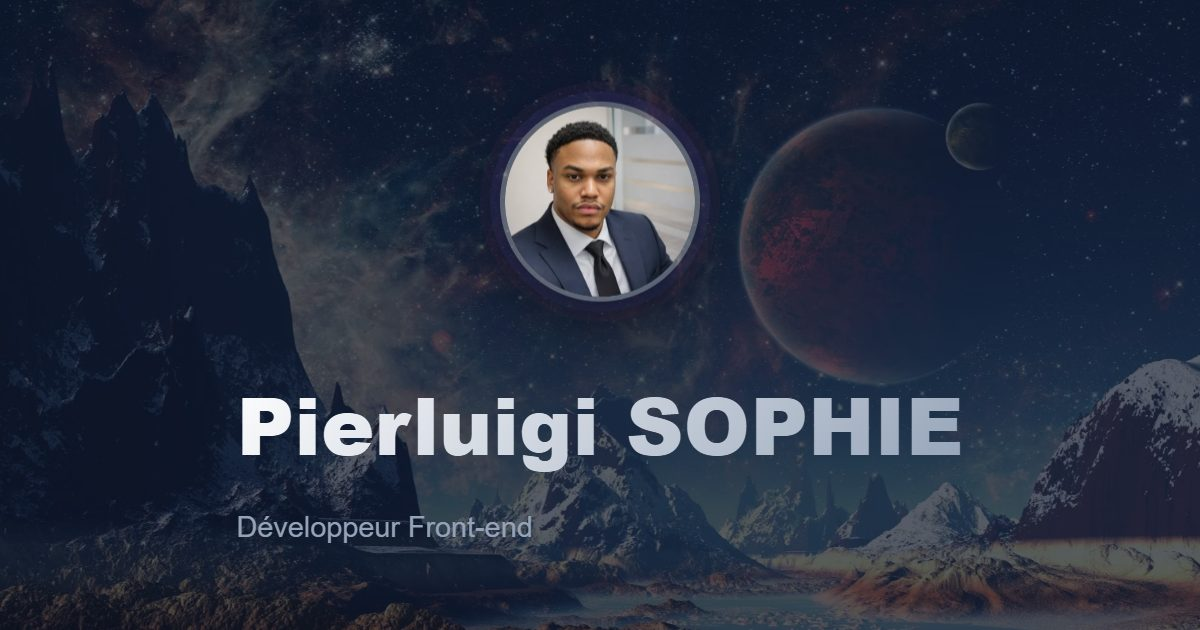
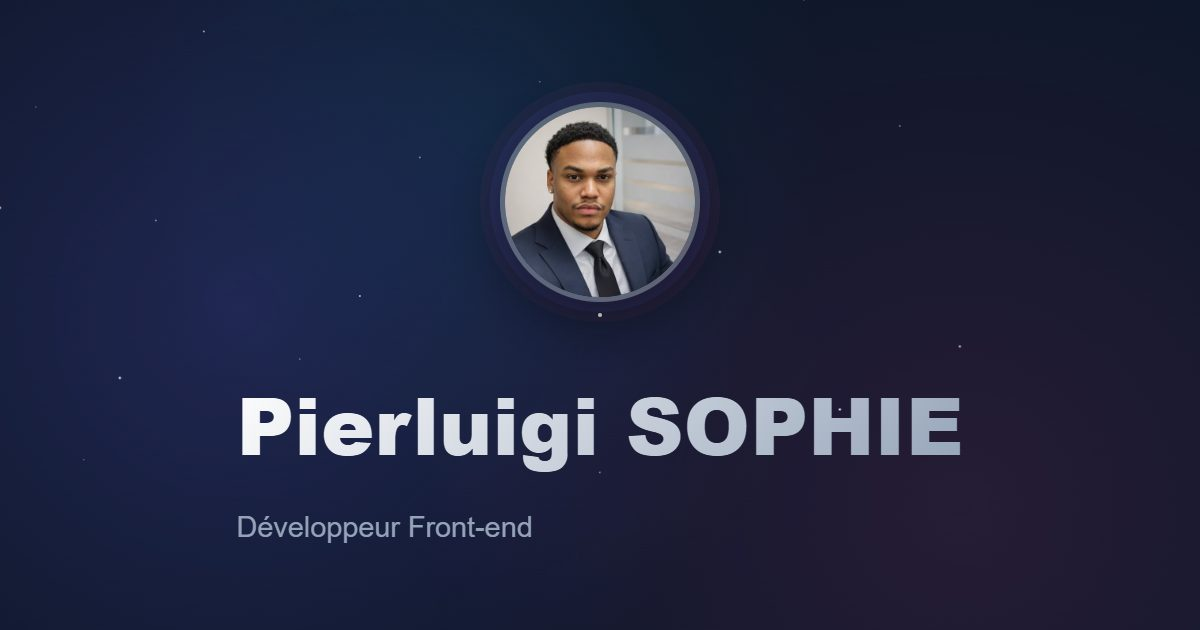
Accueil sans image de fond, textes lisibles dans les deux thèmes

diff --git a/portfolio.css b/portfolio.css
@@ -370,40 +370,6 @@ nav .container {
     padding-top: 80px;
 }
 
-.hero-bg {
-    position: absolute;
-    width: 100%;
-    height: 100%;
-    overflow: hidden;
-}
-
-.hero-bg::before {
-    content: '';
-    position: absolute;
-    top: 0;
-    left: 0;
-    width: 100%;
-    height: 100%;
-    background: rgba(15, 23, 42, 0.7);
-    z-index: 1;
-}
-
-.hero-bg-image {
-    width: 100%;
-    height: 100%;
-    object-fit: cover;
-    animation: slowZoom 20s ease-in-out infinite alternate;
-}
-
-@keyframes slowZoom {
-    0% {
-        transform: scale(1);
-    }
-    100% {
-        transform: scale(1.1);
-    }
-}
-
 .hero-content {
     position: relative;
     z-index: 2;
@@ -1153,10 +1119,10 @@ footer {
     --note: #b45309;
 }
 
-/* L'accueil garde son image sombre : on y conserve les couleurs claires */
-:root[data-theme="light"] .hero {
-    --text: #ffffff;
-    --text-muted: #cbd5e1;
+/* Le dégradé du nom part du blanc en mode sombre : en mode clair il part du bleu nuit */
+:root[data-theme="light"] .hero h1 {
+    background: linear-gradient(135deg, #0f172a, var(--primary-dark));
+    -webkit-background-clip: text;
 }
 
 /* Les étoiles blanches n'ont pas de sens sur fond clair */
@@ -1219,9 +1185,4 @@ footer {
         margin-left: 0;
         margin-right: 1rem;
     }
-}
-
-/* En mode clair, l'image d'accueil devient un bloc arrondi plutôt qu'un fond coupé net */
-:root[data-theme="light"] .hero-bg {
-    border-radius: 0 0 24px 24px;
 }

diff --git a/index.html b/index.html
@@ -67,9 +67,6 @@
 
     <!-- Hero Section -->
     <section class="hero" id="accueil">
-        <div class="hero-bg">
-            <img src="./assets/paysage.webp" alt="Background" class="hero-bg-image">
-        </div>
         <div class="hero-content">
             <div class="hero-profile">
                 <img src="./assets/portrait.webp" alt="Pierluigi SOPHIE" class="profile-image">
